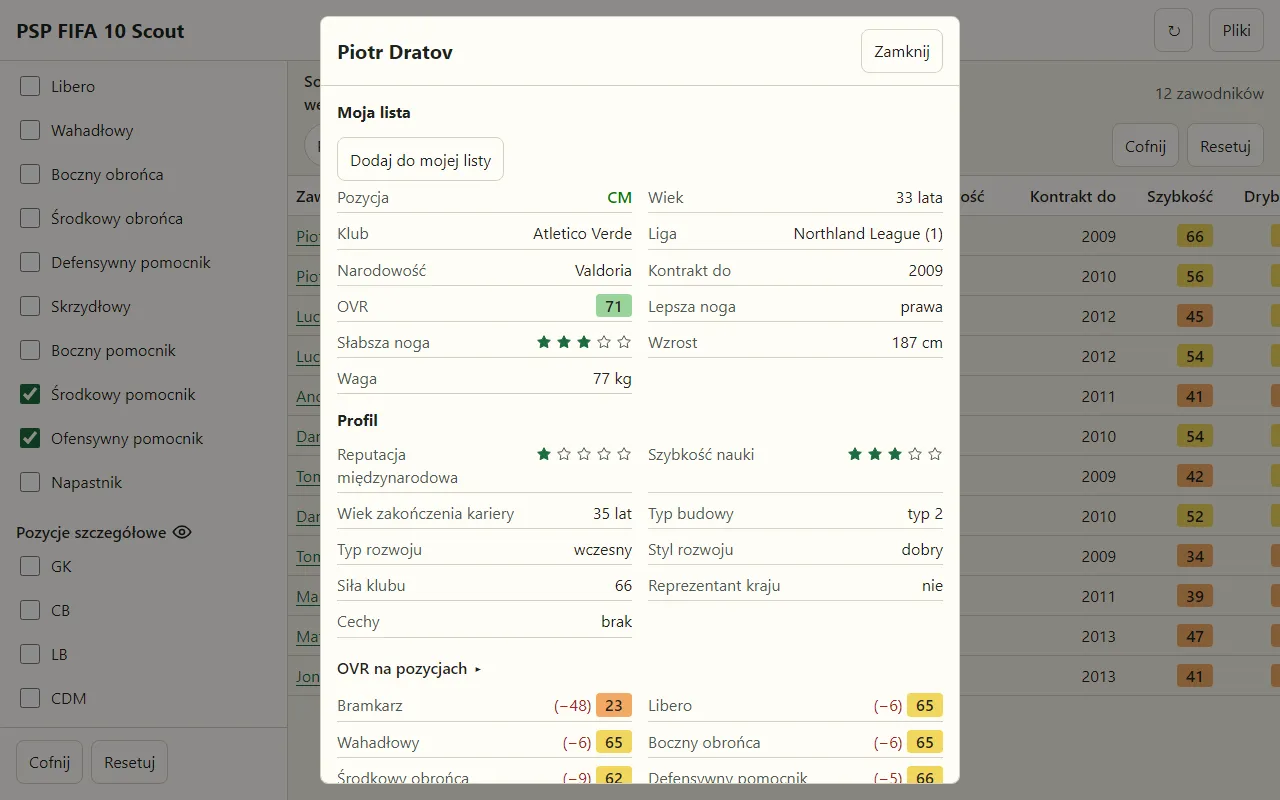
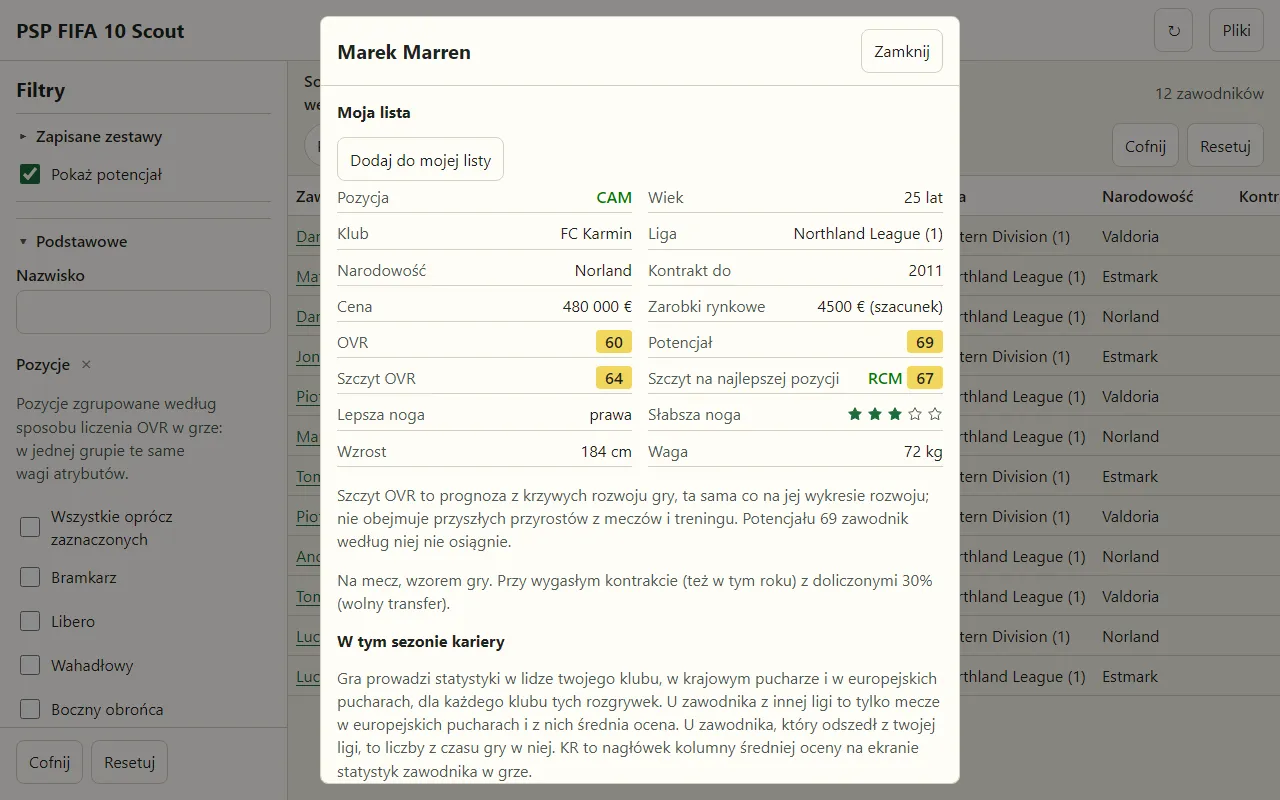
docs(start): show the peak OVR on the start page screenshots (#118)

diff --git a/scripts/sample-database.ts b/scripts/sample-database.ts
@@ -1,15 +1,12 @@
 // A fifa.db for the start page's screenshots: invented clubs, leagues, countries and players, with attributes
-// that follow each position, drawn from a seeded generator (the same bytes on every run). It holds no real
-// player or club. The browser tests keep their own, hand-made database (src/logic/test-support/scout-db.ts).
+// that follow each position, drawn from a seeded generator (the same bytes on every run), invented
+// development curves and a career in the user's club, so a plain save shows the peak OVR. It holds no real
+// player, club or curve. The browser tests keep their own, hand-made database (src/logic/test-support/scout-db.ts).
 import { buildEaDb } from "../src/data/test-support/synthetic-ea-db.ts";
+import { CURVE_COLUMNS } from "../src/logic/overall-rating.ts";
 import { ATTRIBUTE_NAMES } from "../src/logic/players.ts";
 import type { AttributeName } from "../src/logic/players.ts";
-import {
-  daysSince1582,
-  flatCurves,
-  playerRow,
-  table,
-} from "../src/logic/test-support/player-fixtures.ts";
+import { daysSince1582, playerRow, table } from "../src/logic/test-support/player-fixtures.ts";
 
 const SEED = 20_091_010;
 const PLAYER_COUNT = 48;
@@ -88,6 +85,64 @@ const STRONG_BASE = 48;
 const SKILL_SPREAD = 32;
 const NOISE = 10;
 
+/** The career's user club, and its last game: 2009-08-08, days since 1582-10-14 times 1024. */
+const USER_CLUB_ID = 2001;
+const LAST_GAME_NUMBER = 155_892 * 1024;
+
+/** The development styles the players draw from (1 Normal, 2 Good); the types run 1..3, early to late. */
+const STYLES = [1, 2] as const;
+const TYPES = [1, 2, 3] as const;
+const CURVE_AGE_FIRST = 15;
+const CURVE_TOP = 100;
+const CURVE_FLOOR = 30;
+
+/**
+ * An invented curve shaped like the game's: it rises to its top at `peakAge`, stays there `plateauYears`,
+ * then falls by `fallPerYear`, a value for every curve column (ages 15..45).
+ */
+const curveRow = (
+  id: number,
+  shape: { peakAge: number; risePerYear: number; plateauYears: number; fallPerYear: number },
+) => ({
+  id,
+  ...Object.fromEntries(
+    CURVE_COLUMNS.map((column, index) => {
+      const age = CURVE_AGE_FIRST + index;
+      const fallYears = age - shape.peakAge - shape.plateauYears;
+      const value =
+        age < shape.peakAge
+          ? CURVE_TOP - (shape.peakAge - age) * shape.risePerYear
+          : CURVE_TOP - Math.max(0, fallYears) * shape.fallPerYear;
+      return [column, Math.max(CURVE_FLOOR, value)];
+    }),
+  ),
+});
+
+/**
+ * The curves as the game numbers them: the skill curve 3 * style + type - 4 peaks later for a later type
+ * and rises faster for a better style; the physical curve 14 + type peaks earlier and falls faster.
+ */
+const CURVES = [
+  ...STYLES.flatMap((style) =>
+    TYPES.map((type) =>
+      curveRow(3 * style + type - 4, {
+        peakAge: 24 + 2 * type,
+        risePerYear: 3 + style,
+        plateauYears: 2,
+        fallPerYear: 2,
+      }),
+    ),
+  ),
+  ...TYPES.map((type) =>
+    curveRow(14 + type, {
+      peakAge: 22 + 2 * type,
+      risePerYear: 3,
+      plateauYears: 1,
+      fallPerYear: 4,
+    }),
+  ),
+];
+
 /** mulberry32: a small seeded generator returning numbers in [0, 1). */
 const seeded = (seed: number): (() => number) => {
   let state = seed;
@@ -133,10 +188,15 @@ const playerAt = (index: number, random: () => number) => {
     height: 170 + Math.floor(random() * 25),
     weight: 65 + Math.floor(random() * 22),
     potential: clamp(50 + skill * 30 + (youth ? 8 + random() * 8 : random() * 3)),
+    // Drawn last, so the attributes stay those of the earlier sample.
+    developmenttypecode: TYPES[Math.floor(random() * TYPES.length)] ?? 2,
+    developmentstylecode: STYLES[Math.floor(random() * STYLES.length)] ?? 1,
   });
 };
 
-/** The sample database: the tables the app needs to list players, without any career. */
+const empty = (name: string) => ({ name, u32: ["playerid"], rows: [] });
+
+/** The sample database: the tables the app needs to list players, and a career a plain save reads. */
 export const buildSampleDb = (): Uint8Array => {
   const random = seeded(SEED);
   const players = Array.from({ length: PLAYER_COUNT }, (_, index) => playerAt(index, random));
@@ -167,6 +227,25 @@ export const buildSampleDb = (): Uint8Array => {
         position: 33,
       })),
     ),
-    flatCurves(),
+    table("curves", CURVES),
+    table("team_manager", [
+      {
+        team_id: USER_CLUB_ID,
+        firstname: "Anna",
+        surname: "Menedżer",
+        last_game_number: LAST_GAME_NUMBER,
+        currency: 0,
+        prestige: 0,
+        upgrade_fin: 0,
+      },
+    ]),
+    ...[
+      "playerstats",
+      "career_youth_accademy",
+      "career_transfer_list",
+      "career_shortlist",
+      "career_players_grown_attributes",
+      "career_extra_user_team_info",
+    ].map(empty),
   ]);
 };

diff --git a/index.html b/index.html
@@ -110,9 +110,11 @@
                   width="1280"
                   height="800"
                   loading="lazy"
-                  alt="Tabela zawodników z panelem filtrów po lewej: zaznaczone pozycje środkowy i ofensywny pomocnik oraz pole „Pokaż potencjał”, 12 wyników posortowanych według OVR, obok OVR kolumna potencjału."
+                  alt="Tabela zawodników z panelem filtrów po lewej i zaznaczonym polem „Pokaż potencjał”: filtr pozycji środkowy i ofensywny pomocnik, 12 wyników posortowanych według OVR, obok OVR kolumny potencjału i najlepszego szczytu OVR z pozycją, na której zawodnik go osiąga, np. 18-latek z OVR 66 ma szczyt 83."
                 />
-                <figcaption>Lista z filtrem pozycji i potencjałem (przykładowe dane)</figcaption>
+                <figcaption>
+                  Lista z filtrem pozycji, potencjałem i najlepszym szczytem OVR (przykładowe dane)
+                </figcaption>
               </figure>
               <figure>
                 <img
@@ -120,9 +122,9 @@
                   width="1280"
                   height="800"
                   loading="lazy"
-                  alt="Karta zawodnika nad listą: pozycja, wiek, klub, kontrakt, profil z gwiazdkami i OVR na pozycjach."
+                  alt="Karta zawodnika z zapisu kariery nad listą: pozycja, wiek, klub, kontrakt, cena, zarobki rynkowe, OVR 60, potencjał 69, szczyt OVR 64 na jego pozycji i 67 na najlepszej pozycji, prawym środkowym pomocniku, a pod nimi wyjaśnienie szczytu."
                 />
-                <figcaption>Karta zawodnika (przykładowe dane)</figcaption>
+                <figcaption>Karta zawodnika ze szczytem OVR (przykładowe dane)</figcaption>
               </figure>
               <figure class="phone-shot">
                 <img
@@ -139,9 +141,13 @@
               <details>
                 <summary>Czy potrzebny jest zapis kariery?</summary>
                 <p>
-                  Nie. Sama baza wystarcza do wyszukiwania i porównywania zawodników, także po
-                  potencjale. Zapis dodaje szczyt OVR, formę, morale, kontuzje, listę transferową,
-                  cenę i zarobki oraz filtry po nich.
+                  Z zapisem lista pokazuje zawodników takich, jacy są w twojej karierze w dniu
+                  zapisu: kluby i kontrakty po transferach, OVR i atrybuty po rozwoju, tak jak
+                  w grze (gra liczy je na pierwszy mecz bieżącego sezonu). Bez zapisu pokazuje dane
+                  z płyty, czyli stan na początku gry. Zapis nie jest jednak konieczny: sama baza
+                  wystarcza do wyszukiwania i porównywania zawodników, także po potencjale. Zapis
+                  dodaje też szczyt OVR, formę, morale, kontuzje, listę transferową, cenę i zarobki
+                  oraz filtry po nich.
                 </p>
               </details>
               <details>

diff --git a/scripts/make-screenshots.ts b/scripts/make-screenshots.ts
@@ -1,5 +1,6 @@
 // Takes the sample screenshots of the start page (public/screenshots/*.webp) from a sample database of invented
-// players and clubs (scripts/sample-database.ts), so no game data is ever shown. Run by hand when the interface changes; the WebP files are committed.
+// players and clubs (scripts/sample-database.ts) and a plain career save for it, so the peak OVR shows and no game
+// data is ever shown. Run by hand when the interface changes; the WebP files are committed.
 //
 // Usage: pnpm build && pnpm make:screenshots  (needs `pnpm exec playwright install chromium` once)
 import { mkdirSync, writeFileSync } from "node:fs";
@@ -7,6 +8,7 @@ import path from "node:path";
 import { chromium } from "@playwright/test";
 import type { Browser, Locator, Page } from "@playwright/test";
 import { preview } from "vite";
+import { buildPlainSave } from "../src/logic/test-support/scout-db.ts";
 import { buildSampleDb } from "./sample-database.ts";
 
 const OUTPUT_DIR = path.join(import.meta.dirname, "..", "public", "screenshots");
@@ -40,6 +42,9 @@ const SHOTS: readonly Shot[] = [
     arrange: async (page) => {
       await checkGroups(page);
       await page.getByRole("checkbox", { name: "Pokaż potencjał" }).check();
+      await page.getByRole("checkbox", { name: "Szczyt OVR na jego najlepszej pozycji" }).check();
+      // Checking the box scrolled the panel down to it; the picture shows the position filter.
+      await page.locator("#filters-title").scrollIntoViewIfNeeded();
     },
   },
   {
@@ -48,7 +53,9 @@ const SHOTS: readonly Shot[] = [
     phone: false,
     arrange: async (page) => {
       await checkGroups(page);
-      await page.locator("table.players tbody tr").first().getByRole("button").click();
+      await page.getByRole("checkbox", { name: "Pokaż potencjał" }).check();
+      // A young player who still grows and peaks higher at another position than at his own.
+      await page.getByRole("button", { name: "Marek Marren" }).click();
     },
   },
   {
@@ -116,6 +123,11 @@ const shoot = async (
     mimeType: "application/octet-stream",
     buffer: Buffer.from(buildSampleDb()),
   });
+  const { dataBin, paramSfo } = buildPlainSave();
+  await page.getByLabel("Wybierz DATA.BIN i PARAM.SFO").setInputFiles([
+    { name: "DATA.BIN", mimeType: "application/octet-stream", buffer: Buffer.from(dataBin) },
+    { name: "PARAM.SFO", mimeType: "application/octet-stream", buffer: Buffer.from(paramSfo) },
+  ]);
   await page.getByRole("button", { name: /^Pokaż zawodników/u }).click();
   await page.getByRole("table").or(page.locator(".phone-list")).first().waitFor();
   await shot.arrange(page);

diff --git a/scripts/sample-database.test.ts b/scripts/sample-database.test.ts
@@ -1,10 +1,16 @@
 import { describe, expect, it } from "vitest";
+import { parseCareerSave } from "../src/data/career-save.ts";
 import { parseEaDb } from "../src/data/ea-db.ts";
 import { buildPlayers } from "../src/logic/players.ts";
+import { buildPlainSave } from "../src/logic/test-support/scout-db.ts";
 import { buildSampleDb, CLUBS } from "./sample-database.ts";
 
 const KEEPER_CODE = 0;
-const players = buildPlayers(parseEaDb(buildSampleDb()));
+const db = parseEaDb(buildSampleDb());
+const players = buildPlayers(db);
+const career = buildPlayers(db, parseCareerSave(db, buildPlainSave().dataBin));
+const YOUNG_AGE = 23;
+const OLD_AGE = 31;
 
 describe("the sample database of the screenshots", () => {
   it("is the same bytes on every run", () => {
@@ -29,5 +35,27 @@ describe("the sample database of the screenshots", () => {
     const keeper = players.find((player) => player.positionCode === KEEPER_CODE);
     expect(keeper?.overall).toBeGreaterThan(40);
     expect(new Set(players.map((player) => player.overall)).size).toBeGreaterThan(10);
+  });
+
+  it("grows the young and ages the old along the development curves of a career", () => {
+    const young = career.filter((player) => player.age <= YOUNG_AGE);
+    expect(young.length).toBeGreaterThan(5);
+    expect(young.filter((player) => (player.peakGain ?? 0) > 0).length).toBeGreaterThan(
+      young.length / 2,
+    );
+    const old = career.filter((player) => player.age >= OLD_AGE);
+    expect(old.length).toBeGreaterThan(5);
+    expect(old.every((player) => player.peakGain === 0)).toBe(true);
+    // Ageing moves the career OVR away from the database's for some players.
+    expect(career.some((player, index) => player.overall !== players[index]?.overall)).toBe(true);
+  });
+
+  it("has players whose best peak is at another position than their best today", () => {
+    const moved = career.filter(
+      (player) =>
+        player.bestPeakCode !== null &&
+        (player.overallByCode[player.bestPeakCode] ?? 0) < Math.max(...player.overallByCode),
+    );
+    expect(moved.length).toBeGreaterThanOrEqual(2);
   });
 });
